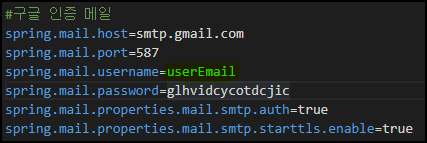
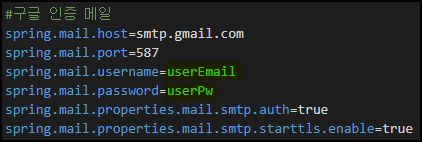
organizing project - 3

diff --git a/DustDefense/src/main/resources/static/js/map/kakaoMap.js b/DustDefense/src/main/resources/static/js/map/kakaoMap.js
@@ -121,7 +121,7 @@ function displayArea(area) {
 //-----------------------------------------------------------------------------------------------------------------------
 
 const getPollutionVal = async (code, type) => {
-	const response = await fetch('http://openapi.seoul.go.kr:8088/41796f7462746d7638397263707561/json/ListAirQualityByDistrictService/1/5/' + code);
+	const response = await fetch('http://openapi.seoul.go.kr:8088/API-Key/json/ListAirQualityByDistrictService/1/5/' + code);
 	if (response.status === 200){
 		const data = await response.json();
 		return data.ListAirQualityByDistrictService.row[0][type];

diff --git a/README.md b/README.md
@@ -1,4 +1,4 @@
-# 자전거 경로 안내와 이동 거리 동안의 미세먼지 흡입량 계산 서비스
+# 자전거 경로 안내와 이동 거리 동안의 미세먼지 흡입량 계산 서비스 (1)
 
 ---
 
@@ -121,7 +121,7 @@
     - [https://born2bedeveloper.tistory.com/14](https://born2bedeveloper.tistory.com/14)
 - **파일 경로**
     - **DustDefense → src → main → resources → application.properties**
-- **email 주소 입력**
+- **email 주소, 비밀번호 입력**
     
     ![Untitled](img/Untitled%204.png)
     
